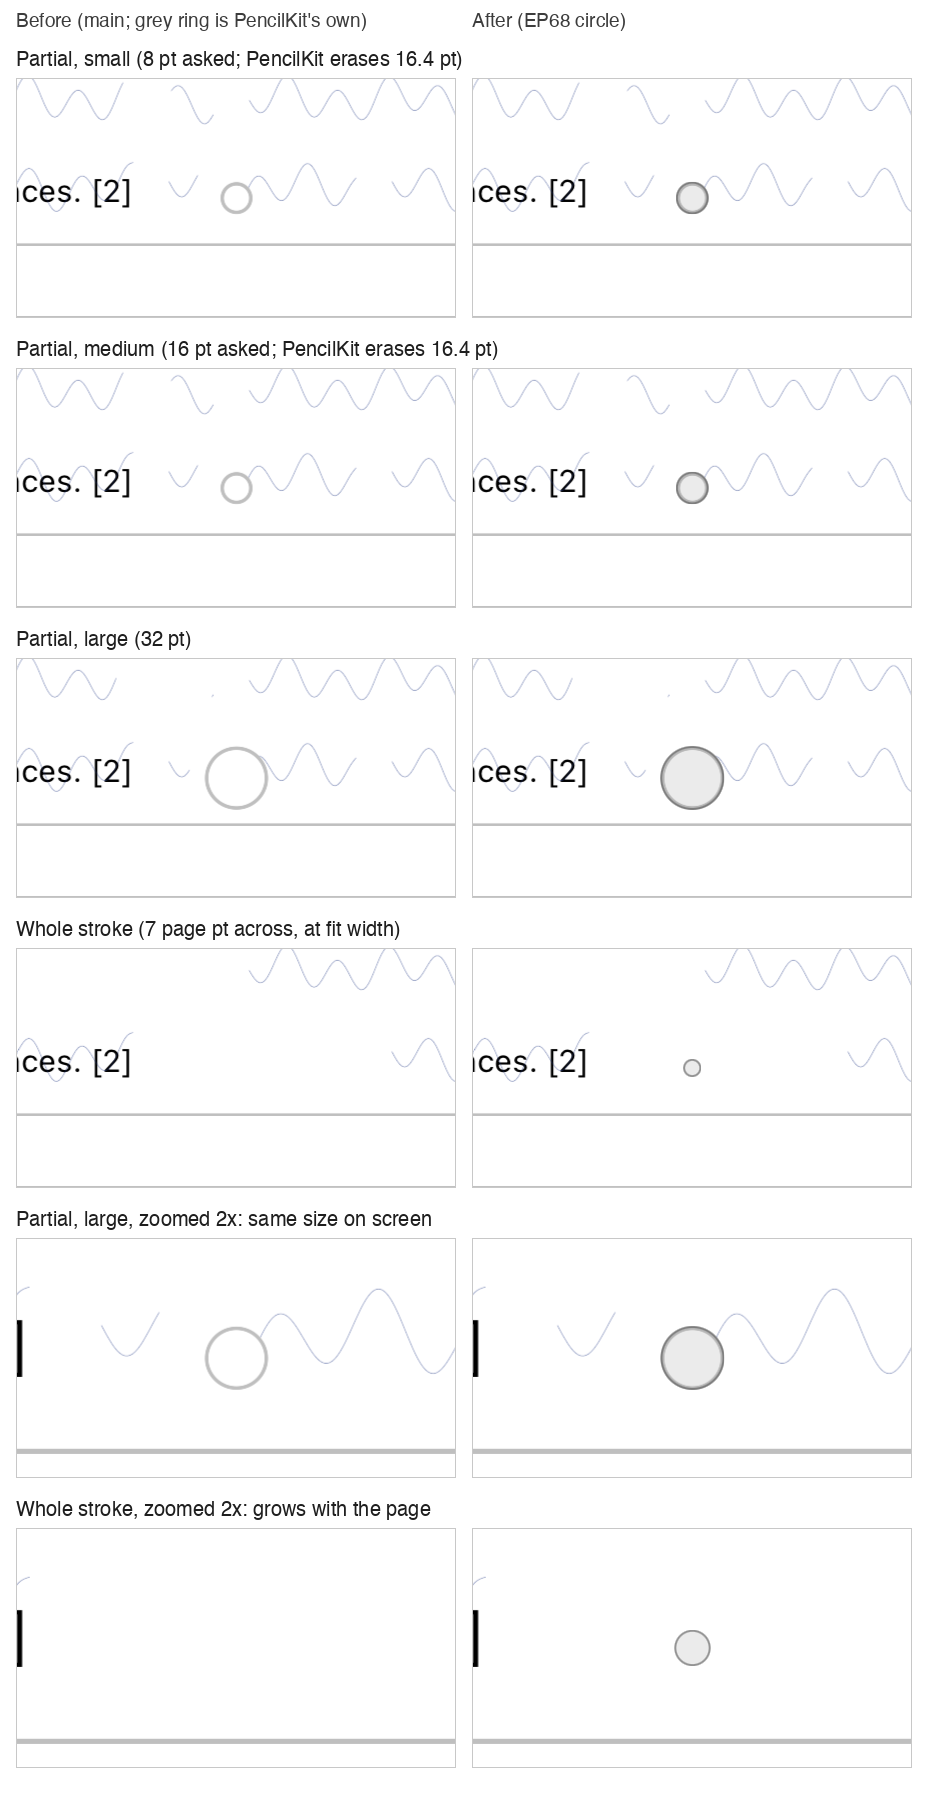
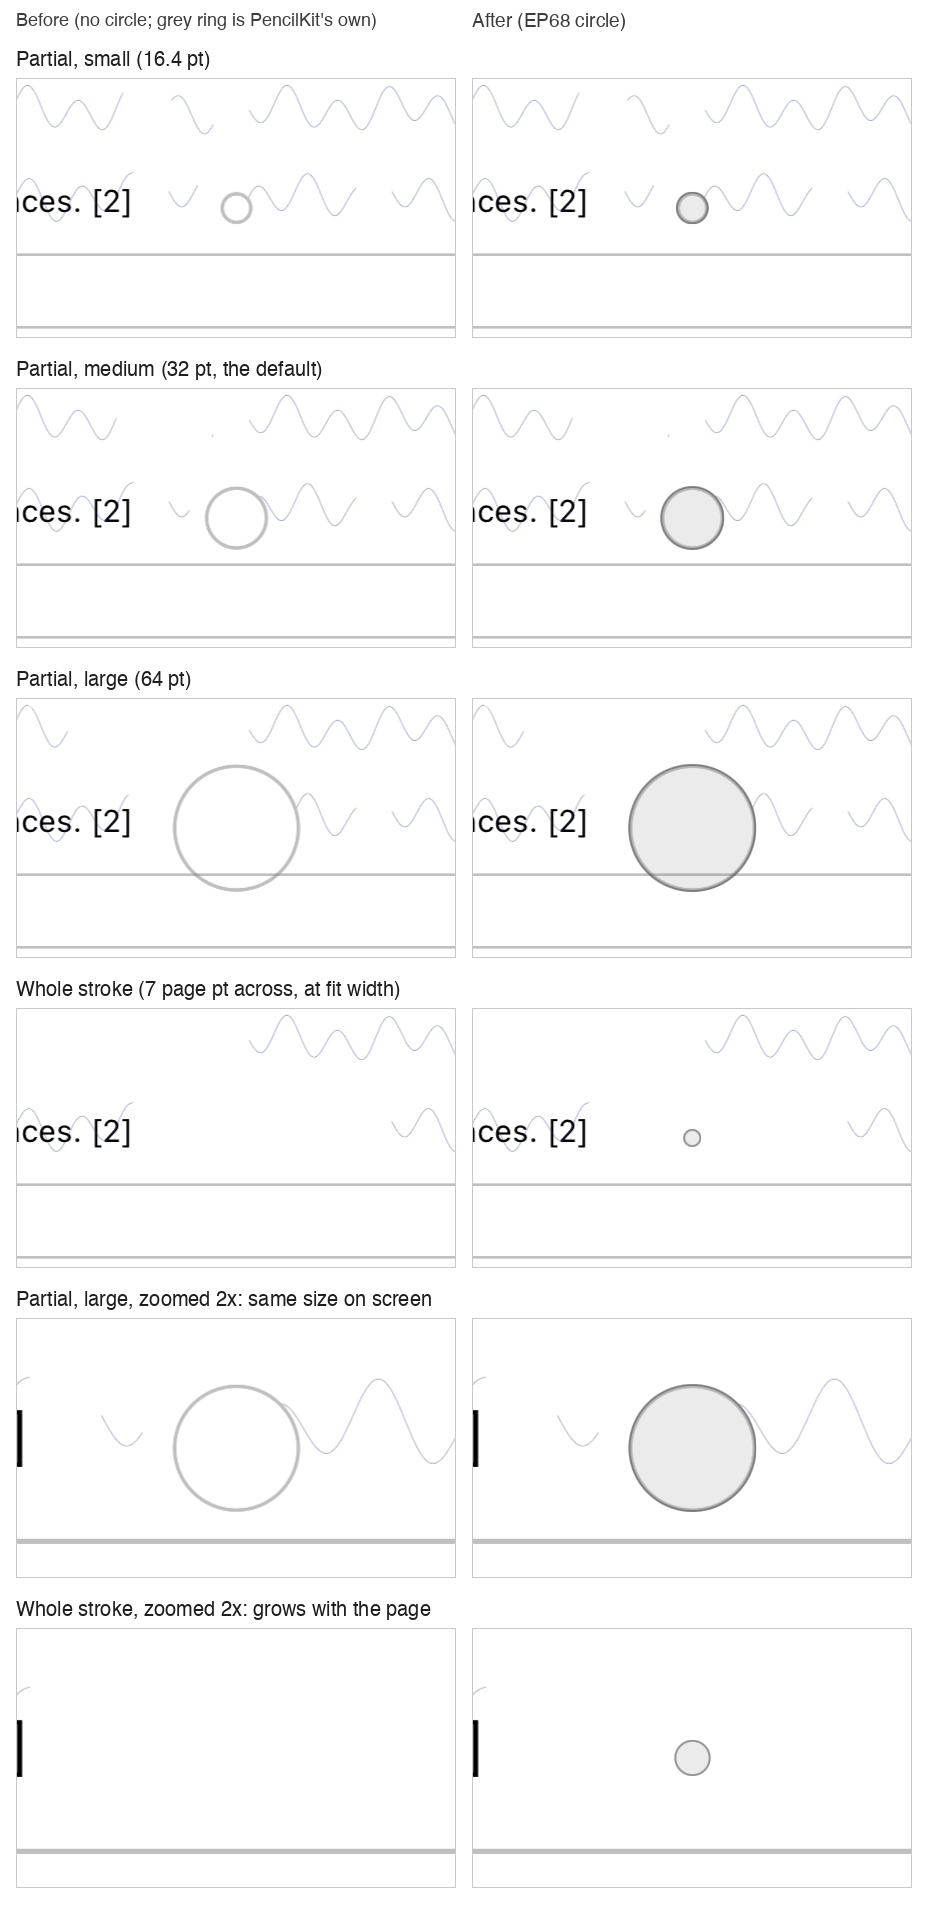
feat(EmberPad): three eraser sizes PencilKit really erases (EP68)
PencilKit's partial eraser takes only 16.4...80.4 pt and raises
anything smaller to 16.4, so the old 8 and 16 pt sizes erased the
same width. The sizes are now 16.4 (small, PencilKit's minimum),
32 (medium, still the default) and 64 pt (large), each erased and
shown by the circle at its own width. The width is in screen points:
PencilKit erases the same on-screen width at every zoom. The stored
eraserSizeIndex keeps its meaning, so saved settings keep small,
medium or large, and the toolbar dots still read small to large.

Tests: every size lies inside PencilKit's valid range, comes back
unchanged from PKEraserTool, the three are distinct and in order,
and the circle is each size's real width. Screenshots rebuilt.

diff --git a/Apps/EmberPadTests/EraserPreviewTests.swift b/Apps/EmberPadTests/EraserPreviewTests.swift
@@ -45,6 +45,25 @@ final class EraserPreviewTests: XCTestCase {
         XCTAssertGreaterThan(EraserPreview.diameter(for: large, pageScale: 1), EraserPreview.diameter(for: medium, pageScale: 1))
     }
 
+    /// Each size is one PencilKit really erases: inside its partial eraser's range, so never raised to its minimum,
+    /// and all three different, so choosing a size changes what is erased and the circle with it.
+    func testEverySizeIsADistinctWidthPencilKitErases() throws {
+        let range = PKEraserTool.EraserType.fixedWidthBitmap.validWidthRange
+        for size in Theme.eraserSizes {
+            XCTAssertTrue(range.contains(size), "\(size) pt is inside PencilKit's \(range)")
+            XCTAssertEqual(PKEraserTool(.fixedWidthBitmap, width: size).width, size, accuracy: 0.001)
+        }
+        XCTAssertEqual(Set(Theme.eraserSizes).count, Theme.eraserSizes.count, "three distinct sizes")
+        XCTAssertEqual(Theme.eraserSizes, Theme.eraserSizes.sorted(), "small, medium, large")
+        var settings = ToolSettings()
+        let diameters = try Theme.eraserSizes.indices.map { index -> CGFloat in
+            settings.eraserSizeIndex = index
+            return EraserPreview.diameter(for: try XCTUnwrap(settings.pencilTool(for: .eraser) as? PKEraserTool), pageScale: 1)
+        }
+        XCTAssertEqual(diameters, Theme.eraserSizes, "the circle is each size's real width")
+        XCTAssertEqual(Theme.eraserDefaultSizeIndex, 1, "medium stays the default")
+    }
+
     func testWholeStrokeCircleZoomsWithThePage() throws {
         var settings = ToolSettings()
         settings.eraserMode = .wholeStroke

diff --git a/Apps/EmberPadTests/ToolStateTests.swift b/Apps/EmberPadTests/ToolStateTests.swift
@@ -32,9 +32,9 @@ final class ToolStateTests: XCTestCase {
         XCTAssertEqual(s.highlighterColors, ["FACC15", "4ADE80", "F472B6"])
         XCTAssertEqual(Theme.penWidths, [1.5, 2.5, 4])
         XCTAssertEqual(Theme.highlighterWidths, [12, 18, 26])
-        XCTAssertEqual(Theme.eraserSizes, [8, 16, 32])
+        XCTAssertEqual(Theme.eraserSizes, [16.4, 32, 64])
         XCTAssertEqual(s.highlighterWidth, 18)
-        XCTAssertEqual(s.eraserSize, 16)
+        XCTAssertEqual(s.eraserSize, 32)
         XCTAssertEqual(s.eraserMode, .partial)
         XCTAssertTrue(s.straightHighlighter)
         XCTAssertTrue(s.highlighterAlwaysStraight, "GoodNotes' Draw in Straight Line is on")
@@ -65,7 +65,7 @@ final class ToolStateTests: XCTestCase {
         s.eraserSizeIndex = 2
         let partial = try XCTUnwrap(s.pencilTool(for: .eraser) as? PKEraserTool)
         XCTAssertEqual(partial.eraserType, .fixedWidthBitmap)
-        XCTAssertEqual(partial.width, 32)
+        XCTAssertEqual(partial.width, 64)
         s.eraserMode = .wholeStroke
         XCTAssertEqual(try XCTUnwrap(s.pencilTool(for: .eraser) as? PKEraserTool).eraserType, .vector)
 

diff --git a/Apps/EmberPad/Theme.swift b/Apps/EmberPad/Theme.swift
@@ -108,8 +108,11 @@ enum Theme {
     static let penDefaultWidthIndex = 1
     static let highlighterWidths: [CGFloat] = [12, 18, 26]
     static let highlighterDefaultWidthIndex = 1
-    /// Partial-eraser sizes; the whole-stroke eraser has no size.
-    static let eraserSizes: [CGFloat] = [8, 16, 32]
+    /// Partial-eraser sizes, in screen points (PencilKit erases the same on-screen width at every zoom); the
+    /// whole-stroke eraser has no size. EP68: PencilKit's partial eraser takes only 16.4 to 80.4 points and raises
+    /// anything smaller to 16.4, so the old 8 and 16 erased the same. Small is PencilKit's minimum, and each size is
+    /// twice the one before. The stored size is the index, so saved settings keep small, medium or large.
+    static let eraserSizes: [CGFloat] = [16.4, 32, 64]
     static let eraserDefaultSizeIndex = 1
     /// The toast capsule: `#1C1C1E` at 88% in both themes (design 5.4).
     static let toastBackground = Color(.sRGB, red: 0x1C / 255, green: 0x1C / 255, blue: 0x1E / 255, opacity: 0.88)

diff --git a/README.md b/README.md
@@ -214,7 +214,7 @@ Tools come from the tool row under the header (`ToolbarStrip.swift`), the same o
 
 **Shapes** (EP64, after the highlighter, GoodNotes' slot) turns a Pencil stroke into a clean shape when the Pencil lifts: a line, an arrow (a shaft with a barb on each side, drawn in one stroke), a rectangle or square, a triangle, a polygon of up to eight corners, or an ellipse or circle. Lines, rectangles and ellipses within 8° of level or upright are set level or upright, and a rectangle or ellipse within 10% of equal sides becomes a square or circle. A stroke that is none of these (a scribble, a word, a curve) stays as drawn. Shapes take the pen's three widths and its colour presets, shown in the strip as for the pen, and are drawn as wide as the fountain pen's line. Tapping Shapes again opens its settings, as GoodNotes': **Snap to other shapes** (on by default) moves a new shape's corners and line ends onto another shape's corner or line end within 12 pt (a rectangle or square moves whole so it stays square), and **Fill colour** (off by default) tints closed shapes with their stroke colour at 20%. Both are kept in `toolState.v1`; settings saved by an earlier build read them as their defaults. Recognition is pure (`ShapeRecognizer.swift`) and runs in the same swap as draw and hold: the freehand stroke and its clean shape are one undo step named after the shape. Shapes are ordinary PencilKit strokes (`ShapeInk.swift`), so lasso, eraser, undo and redo, export, thumbnails, the student view and the ink backup treat them as other ink and the stored drawing format is unchanged: an outline is one stroke in PencilKit's plain pen ink, which no other tool writes, and a fill is one more stroke under it, a translucent disc of the same ink clipped to the shape by a stroke mask (the kind PencilKit's own eraser leaves), so a worksheet written on an earlier build opens as before and a build without the Shape tool shows shapes and fills as they look here. A lasso around a shape takes its fill with it, and recolouring keeps the fill translucent. Read-only mode blocks the Shape tool with the other tools. See each [freehand stroke beside its clean shape](docs/screenshots/ep64/freehand-beside-clean.png), the [shapes on a worksheet](docs/screenshots/ep64/clean-shapes.png), [fill on with a snapped line](docs/screenshots/ep64/fill-and-snap.png), the [settings](docs/screenshots/ep64/settings-popover.png) and the [student view](docs/screenshots/ep64/student-view.png), from a synthetic worksheet with strokes sent through the real page controller (Simulator cannot synthesise Pencil touches). Recognition on a real hand needs the device check.
 
-**Eraser circle** (EP68, as GoodNotes shows it). While the eraser touches a page, a light grey see-through circle with a thin outline is centred on the Pencil tip and follows it, and it goes on lift. It is the area PencilKit erases at the zoom on screen. The partial eraser's circle is the PencilKit tool's own width in screen points, because PencilKit erases the same on-screen width at every zoom: zooming in leaves the circle the same size and it covers less of the page. PencilKit keeps that width between 16.4 and 80.4 points (iOS 26.5), so the 8 and 16 pt sizes both erase, and show, 16.4 pt, and only the 32 pt size is larger. The whole-stroke eraser has no width in PencilKit. It removes strokes whose line passes within about 3.5 page points of the Pencil's path at every zoom (measured on iOS 26.5), so its circle is 7 page points across and grows and shrinks with the page. On an iPad with Apple Pencil hover the same circle shows while the Pencil hovers over a page with the eraser chosen; elsewhere the hover recogniser never fires. The circle is a layer above the pages on this iPad only (`EraserPreview.swift`): it is never ink, and is not on the student view, in exports or thumbnails, or in the undo history. It also never claims a touch, because a second observing recogniser like live ink's moves it. Read-only mode and other tools show no circle. Erase highlighter only and back to last tool work as before. On iOS 26.5 PencilKit itself draws a faint grey ring for the partial eraser, which the circle covers exactly. Tests hand stand-in Pencil touches to PencilKit's own drawing recogniser and check that the gap it erases, and the strokes it removes, match the circle at each size and at zooms from 0.6x to 4x. See the [before and after at each size and zoomed](docs/screenshots/ep68/before-after.png), the [editor mid-erase](docs/screenshots/ep68/editor-partial-large.png) and [after lift](docs/screenshots/ep68/editor-after-lift.png), taken halfway through a real PencilKit erase in the Simulator. Feel on a real Pencil needs the device check.
+**Eraser circle** (EP68, as GoodNotes shows it). While the eraser touches a page, a light grey see-through circle with a thin outline is centred on the Pencil tip and follows it, and it goes on lift. It is the area PencilKit erases at the zoom on screen. The partial eraser's circle is the PencilKit tool's own width in screen points, because PencilKit erases the same on-screen width at every zoom: zooming in leaves the circle the same size and it covers less of the page. PencilKit's partial eraser takes only 16.4 to 80.4 points (iOS 26.5) and raises anything smaller to 16.4, so the old 8 and 16 pt sizes erased the same width. EP68 makes the three sizes 16.4 (small, PencilKit's minimum), 32 (medium, the default) and 64 pt (large), so each size erases, and shows, its own width. Saved settings keep their small, medium or large choice. The whole-stroke eraser has no width in PencilKit. It removes strokes whose line passes within about 3.5 page points of the Pencil's path at every zoom (measured on iOS 26.5), so its circle is 7 page points across and grows and shrinks with the page. On an iPad with Apple Pencil hover the same circle shows while the Pencil hovers over a page with the eraser chosen; elsewhere the hover recogniser never fires. The circle is a layer above the pages on this iPad only (`EraserPreview.swift`): it is never ink, and is not on the student view, in exports or thumbnails, or in the undo history. It also never claims a touch, because a second observing recogniser like live ink's moves it. Read-only mode and other tools show no circle. Erase highlighter only and back to last tool work as before. On iOS 26.5 PencilKit itself draws a faint grey ring for the partial eraser, which the circle covers exactly. Tests hand stand-in Pencil touches to PencilKit's own drawing recogniser and check that the gap it erases, and the strokes it removes, match the circle at each size and at zooms from 0.6x to 4x. See the [before and after at each size and zoomed](docs/screenshots/ep68/before-after.png), the [editor mid-erase](docs/screenshots/ep68/editor-partial-large.png) and [after lift](docs/screenshots/ep68/editor-after-lift.png), taken halfway through a real PencilKit erase in the Simulator. Feel on a real Pencil needs the device check.
 
 **Fountain pen feel and tip sharpness.** The fountain pen aims at GoodNotes' Fountain Pen at Tip Sharpness maximum and Pressure Sensitivity minimum: a fine, even, pure-black line about 1.22 pt wide at the middle width (2.5), as GoodNotes draws 0.3 mm, the same width in every direction at Min (within 4%; a little thinner on up-right diagonals as pressure sensitivity rises), barely swelling with pressure, with ends that thin to sharp points over about 9 pt. The ink does not change when the Pencil lifts (EP56): only the end tip is added. PencilKit has no public hook into its own live stroke, so PencilKit still takes the Pencil (palm rejection, the commit, undo) in a clear monoline nobody sees, while `LivePen.swift` draws the stroke from the same coalesced and predicted Pencil samples (position, time, force, tilt) with the shape below, in a passive PencilKit layer above the page's ink, drawn at the page's ink zoom. The start tip grows in while the stroke is written; predicted samples are drawn and dropped on lift. When PencilKit commits the stroke it is swapped, a turn of the run loop later, for exactly the stroke drawn live plus its end tip, keeping its creation date, and the live layer lets the stroke go once the page has drawn it (or after a second). If the swap cannot run (fast writing, a failed straighten or lasso, undo or redo, or a drawing loaded after the app stopped mid-stroke), any clear pen stroke is given back the pen colour at full opacity, outside the undo stack, once no other swap is queued, so a written stroke is never left invisible. The student view's provisional line takes the pen colour and the shaped stroke's middle width. Each point's width is rebuilt from the pen width the stroke was drawn with, its force (smoothed; at Min pressure only reduces the change, within about 0.65 to 1.45 times), the stroke direction and the tip taper, and its nib is turned across the stroke, because PencilKit's committed fountain ink draws 2 × (size − 2) points across the nib and a quarter of that along it (measured in the Simulator). Position, timing, force, altitude, opacity, colour, transform and random seed stay as written. The ink is a new fountain-pen ink, never the committed one: PencilKit commits live fountain-pen strokes with an older ink (content version 2) whose seeded grain, at about 1 pt, breaks into a beaded grey fringe with about half the ink; the new ink draws the same points as one clean line at every zoom. The pen settings popover keeps its Tip sharpness slider: 0 to 100% in five ticks, default 100%, with the footer "Applied when the Pencil lifts." At 100% each end tapers over 9 pt at the middle width (3.6 pt per point of pen width), never more than half the stroke, to a quarter of the width; lower settings taper less, and 0% keeps blunt ends while still drawing the fine line. Strokes shorter than 3 pt at the middle width (dots, decimal points, charges, short arrowhead barbs) keep blunt ends. A pen stroke snapped straight by draw and hold takes the same pen feel in the same swap. Strokes already cut by the eraser, loops taken by circle to lasso and highlighter strokes are left alone. The stroke and its new shape are one undo step named "Ink": one undo removes the stroke and redo brings back the reshaped one. The pressure sensitivity setting (default Min) is read by the reshape but has no slider yet. Settings saved by an earlier build keep a tip sharpness the user chose; the old default (50%), saved before the choice was recorded, becomes 100%, so a 50% the user had picked by hand also moves to 100% once. While it is written the stroke already has its width, its thick-thin variation and its start tip; unit tests check that lift changes no ink away from the end tip. Strokes written on an earlier build keep the older ink. See a [worksheet at 0, 50 and 100%](docs/screenshots/pen-feel-tip-sharpness.png) (synthetic strokes committed through the real page controller in the Simulator). On the iPad Air 4 the ink no longer changes at lift and long strokes do not stutter. In the Simulator, a long slow stroke shows one or two screen freezes of 100 to 245 ms that the old monoline did not, with the main thread free and each live update about 5 ms (compositing between PencilKit's hidden live stroke and the live layer); watch for it on other iPads. The real Pencil force range needs the device check.
 
